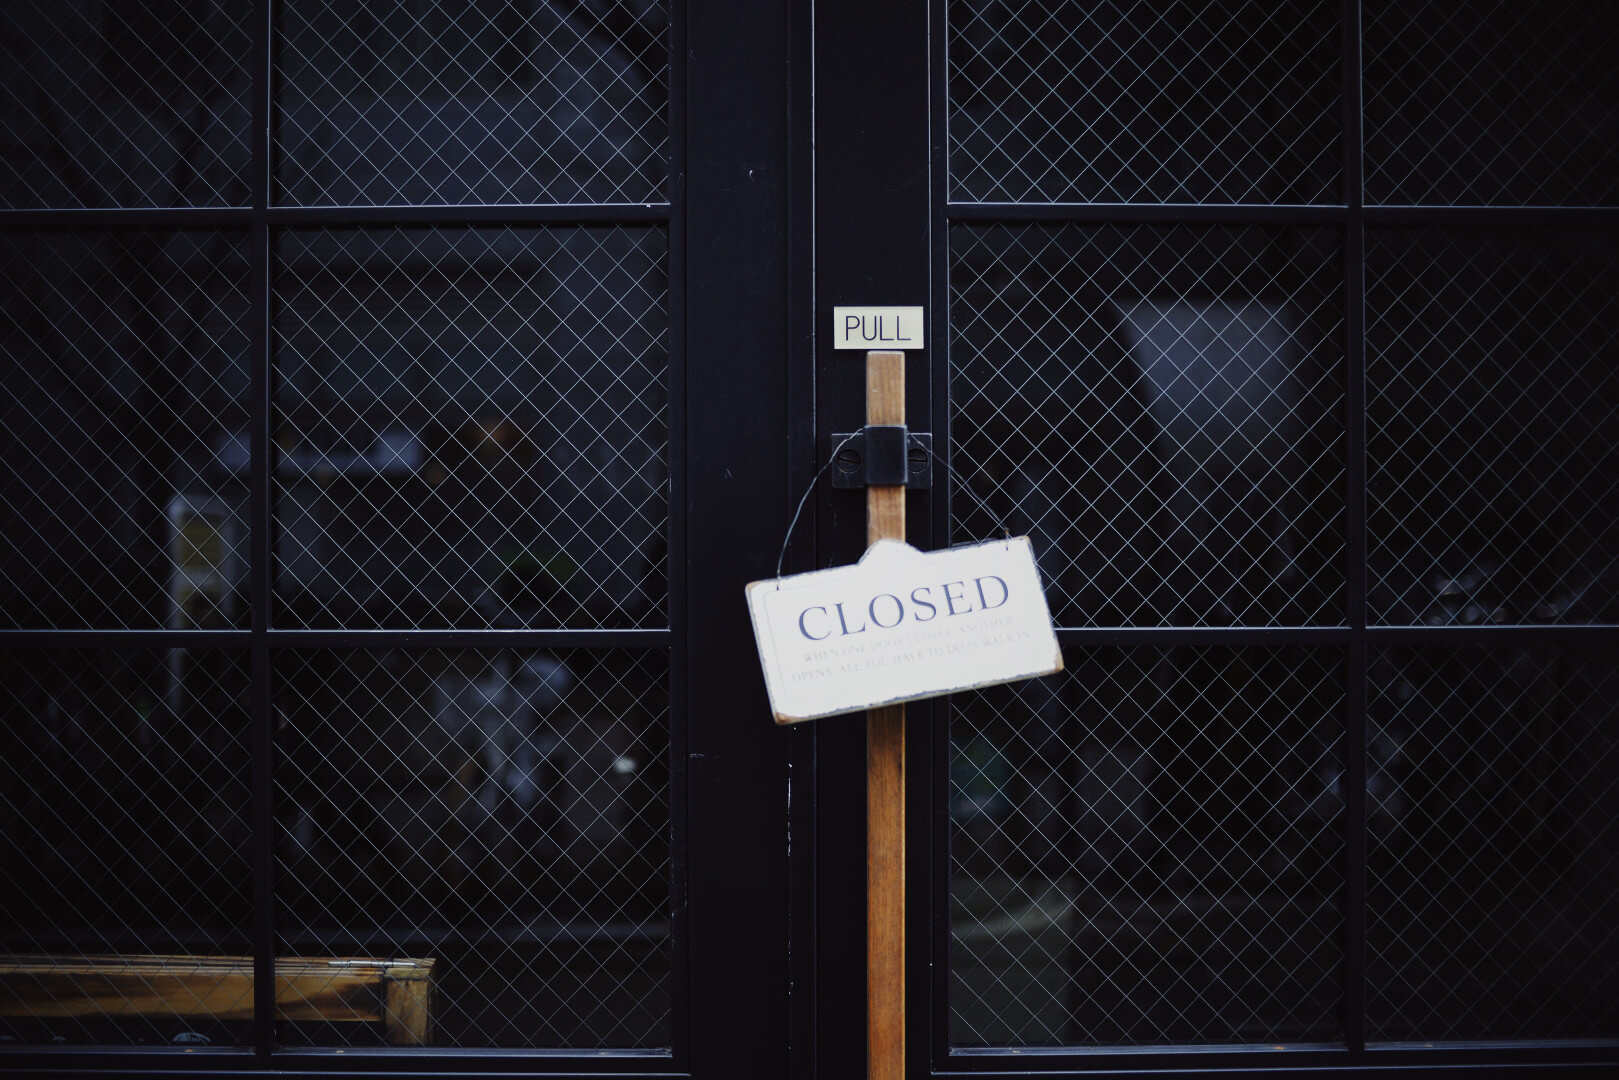
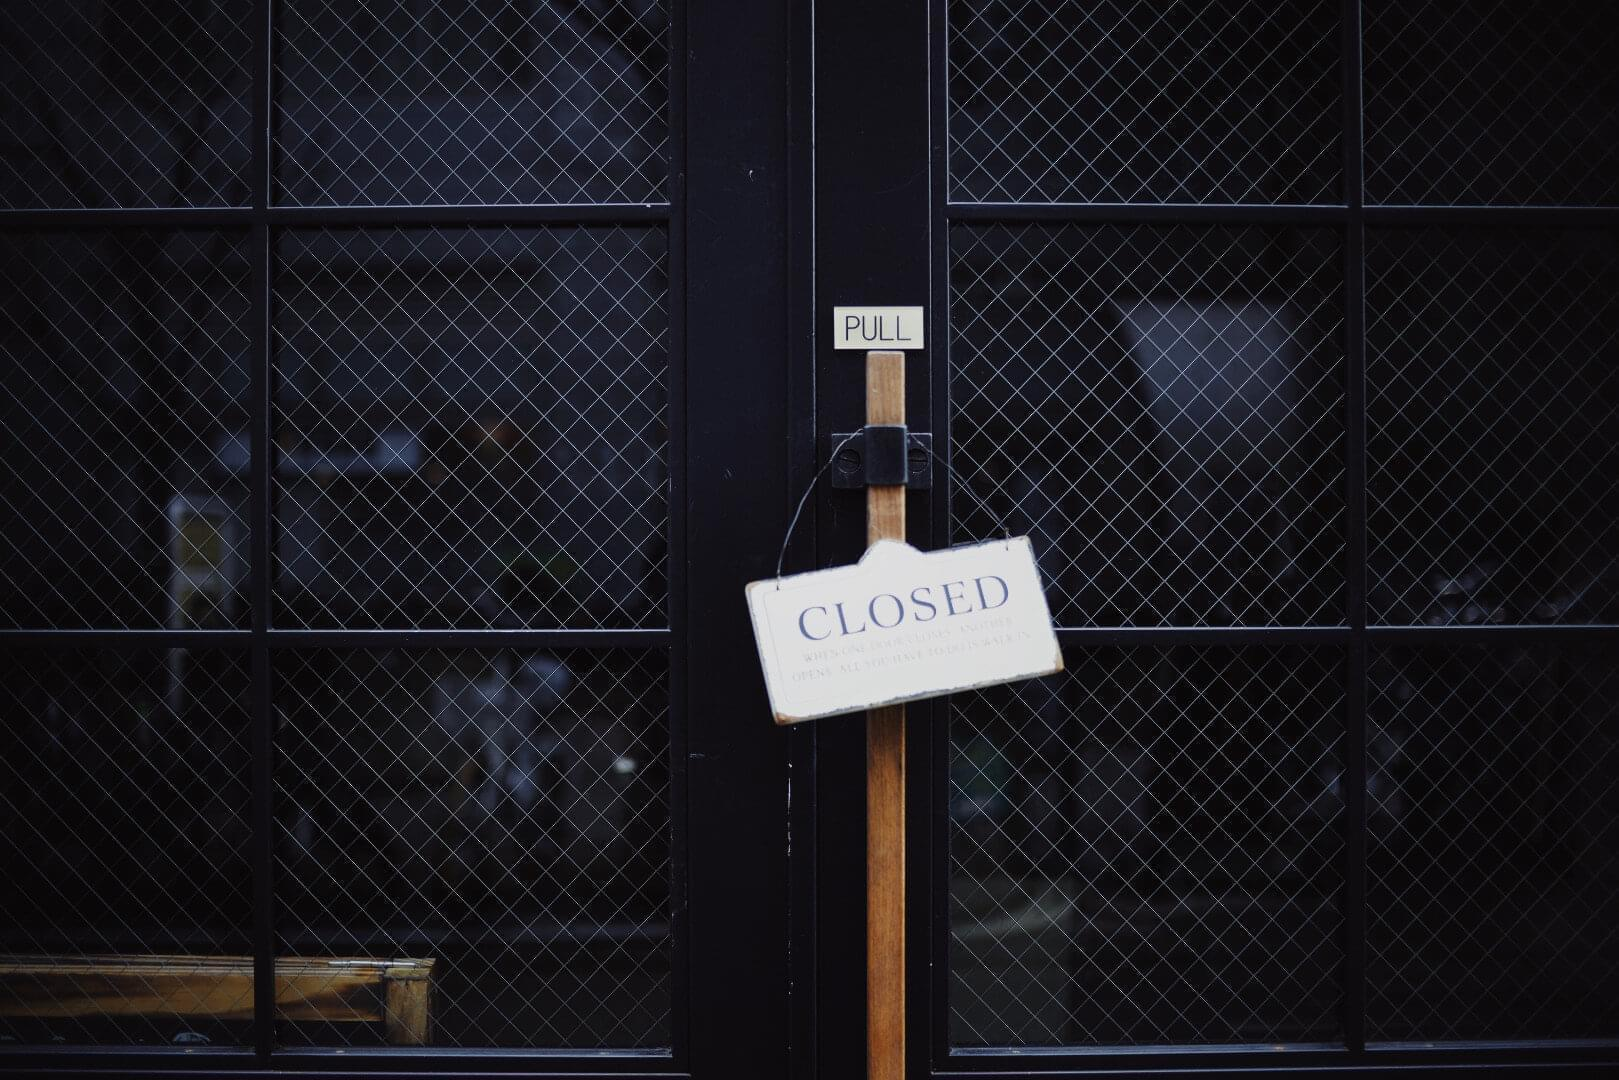
optimized images

diff --git a/server/static/css/unsplash.css b/server/static/css/unsplash.css
@@ -1,1 +1,1 @@
-a.unsplash,a.unsplash:visited{background-color:#000;color:#fff;text-decoration:none;padding:4px 6px;font-size:12px;font-weight:700;line-height:1.2;display:inline-block;border-radius:3px;position:absolute;right:8px;bottom:8px}a.unsplash>span{display:inline-block;padding:2px 3px}a.unsplash>span>svg{height:12px;width:auto;position:relative;vertical-align:middle;top:-1px;fill:#fff}html.gaspanik:before{background-image:url(../img/gaspanik.jpg)}html.a2foto:before{background-image:url(../img/a2foto.jpg)}html.davidmoum:before{background-image:url(../img/davidmoum.jpg)}html.edgr:before{background-image:url(../img/edgr.jpg)}html.michaelbenz:before{background-image:url(../img/michaelbenz.jpg)}
+a.unsplash,a.unsplash:visited{background-color:#000;color:#fff;text-decoration:none;padding:4px 6px;font-size:12px;font-weight:700;line-height:1.2;display:inline-block;border-radius:3px;position:absolute;right:8px;bottom:8px}a.unsplash>span{display:inline-block;padding:2px 3px}a.unsplash>span>svg{height:12px;width:auto;position:relative;vertical-align:middle;top:-1px;fill:#fff}html.gaspanik:before{background-image:url(../img/gaspanik.jpg)}html.a2foto:before{background-image:url(../img/a2foto.jpg)}html.davidmoum:before{background-image:url(../img/davidmoum.jpg)}html.edgr:before{background-image:url(../img/edgr.jpg)}html.michaelbenz:before{background-image:url(../img/michaelbenz.jpg)}html.boontohhgraphy:before{background-image:url(../img/boontohhgraphy.jpg)}html.frankiefoto:before{background-image:url(../img/frankiefoto.jpg)}html.darrylbrian:before{background-image:url(../img/darrylbrian.jpg)}html.kalenemsley:before{background-image:url(../img/kalenemsley.jpg)}html.hikersbay:before{background-image:url(../img/hikersbay.jpg)}

diff --git a/server/static/sw.js b/server/static/sw.js
@@ -1,1 +1,1 @@
-!function(t,e){location.protocol,location.host;const n=caches.open("offline.report-0.0.9");addEventListener("install",t=>{t.waitUntil(n.then(t=>t.addAll(["/","/css/min.css","/css/unsplash.css","/js/min.js",decodeURIComponent(location.search.slice(1))])))}),t.addEventListener("fetch",t=>{const{request:e}=t;t.respondWith(/\.txt$/.test(e.url)?fetch(e):n.then(t=>t.match(e).then(n=>n||fetch(e.clone()).then(n=>(199<n.status&&n.status<400?t.put(e,n.clone()):navigator.onLine&&console.error(url),n),t=>{navigator.onLine&&console.error(url,t)}))))})}(self);
+!function(t,e){location.protocol,location.host;const n=caches.open("offline.report-0.0.10");addEventListener("install",t=>{t.waitUntil(n.then(t=>t.addAll(["/","/css/min.css","/css/unsplash.css","/js/min.js",decodeURIComponent(location.search.slice(1))])))}),t.addEventListener("fetch",t=>{const{request:e}=t;t.respondWith(/\.txt$/.test(e.url)?fetch(e):n.then(t=>t.match(e).then(n=>n||fetch(e.clone()).then(n=>(199<n.status&&n.status<400?t.put(e,n.clone()):navigator.onLine&&console.error(url),n),t=>{navigator.onLine&&console.error(url,t)}))))})}(self);

diff --git a/server/static/js/index.js b/server/static/js/index.js
@@ -2111,6 +2111,8 @@ function _taggedTemplateLiteral(strings, raw) { if (!raw) { raw = strings.slice(
   };
 }, function (global, require, module, exports) {
   // ../../shared/status.js
+  "use strict";
+
   module.exports = function (status) {
     switch (status) {
       case 'online':
